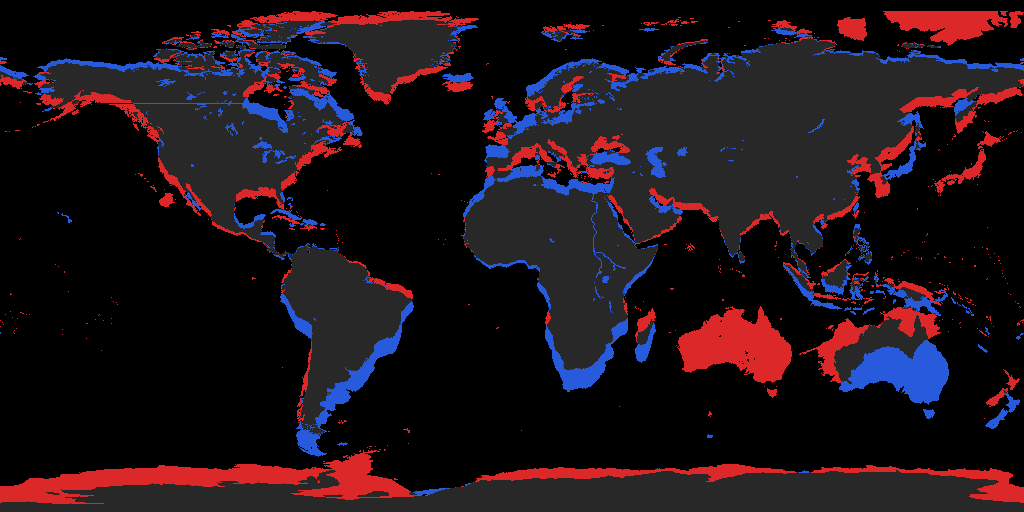
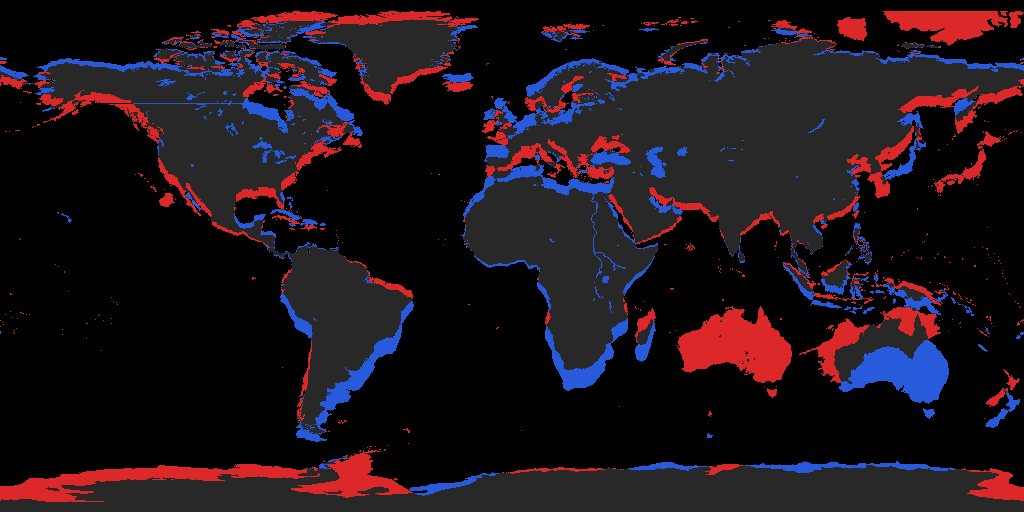
Fix world/Antarctica seam to author's value (367.5px from bottom)
The map author specified the world-map (Mercator) / Antarctica (equirect)
seam at 367-368 px from the bottom -> row 2192.5 -> normalized 0.8562 (my
earlier 0.918 was where the Antarctica *landmass* starts, below the actual
band join which includes the Southern Ocean strip).

Refit latitudes against Natural Earth with the correct seam:
  world      0..0.8562   +90 .. -50
  antarctica 0.8562..1   -54 .. -90
Baseline land/sea disagreement improves 12.62% -> 11.99%.

Note on projection: with the correct seam the vertical land-profile
correlation favours Mercator, but because the top row must be the true north
pole (+90) -- which pure Mercator cannot place at a finite edge -- equirect
aligns better overall (12.03% vs 12.45%) and stays the default; mercator
remains selectable via the proj column.

Changed region(s): [[0.0, 0.8438, 0.4688, 1.0], [0.4688, 0.9062, 0.9688, 0.9688], [0.9688, 0.9688, 1.0, 1.0]]

diff --git a/tools/mapfix/README.md b/tools/mapfix/README.md
@@ -4,10 +4,10 @@
 
 ## TL;DR
 
-- マップは **5120×2560**。ただし **単一の正距円筒ではない**。**世界map＋南極map を縦に合体し、指定ピクセル数に収めるため縦に押しつぶした**もので、**バンドごとに縦のスケール（縦横比）が異なる**（＝「2種類の縦横比」）。
-  - 世界バンド：行 0–2350（正規化 0–0.918）↔ 緯度 **+90°〜−60°**（≈15.4 px/度）
-  - 南極バンド：行 2350–2560（0.918–1.0）↔ 緯度 **−65°〜−90°**（≈8.4 px/度、より圧縮）
-- このピースワイズ投影（`bands.csv`）を前提に実地理(GIS)と比較すると、陸海の食い違いは **約12.7%**（単一正距円筒という誤前提だと16.8%に見えていた＝差の約4%はフレーム誤差）。
+- マップは **5120×2560**。ただし **単一の正距円筒ではない**。**世界map＋南極map を縦に合体し、指定ピクセル数に収めるため縦に押しつぶした**もので、**バンドごとに縦のスケール（縦横比）が異なる**（＝「2種類の縦横比」）。継ぎ目は**下から367.5px（正規化0.8562）**。
+  - 世界バンド：行 0–2192（正規化 0–0.8562）↔ 緯度 **+90°〜−50°**（出自メルカトル／実用上は正距円筒が最良）
+  - 南極バンド：行 2192–2560（0.8562–1.0）↔ 緯度 **−54°〜−90°**（正距円筒）
+- このピースワイズ投影（`bands.csv`）を前提に実地理(GIS)と比較すると、陸海の食い違いは **約12.0%**（単一正距円筒という誤前提だと16.8%に見えていた）。
 - 全レイヤーを **同一の変位場でワープ**（プロヴィンスは最近傍補間で色＝ID保持）すると、食い違いを **約6.5% まで低減**。変位量も 17→11px に減り、補正が「真の歪み」だけに集中。
 - この方式なら **province ID が変わらない**ので、`definition.csv` / states / history / supply などの既存データは壊れない。
 
@@ -17,10 +17,10 @@
 
 ```
  row 0      ┌─────────────────────────────┐  +90° (北極)
-            │        世界バンド            │
-            │   (lat +90..-60, 15.4px/°)   │
- row 2350   ├─────────────────────────────┤  -60° / -65°（継ぎ目）
-            │       南極バンド (圧縮)      │
+            │     世界バンド (Mercator出自)│
+            │        lat +90 .. -50        │
+ row 2192   ├─────────────────────────────┤  継ぎ目（下から367.5px）
+            │   南極バンド (正距円筒/圧縮) │  lat -54 .. -90
  row 2560   └─────────────────────────────┘  -90° (南極)
 ```
 
@@ -31,14 +31,16 @@
 各バンドは `equirect` / `mercator` を選べる（`bands.csv` の6列目）。
 
 - **南極**：正距円筒（作者確認）。
-- **世界**：出自は**メルカトル**（作者）。ただし**ピクセル予算に収める縦圧縮でメルカトルの高緯度引き伸ばしがほぼ相殺**され、実測では正距円筒の方がGISとよく合う：
+- **世界**：出自は**メルカトル**（作者）。ただし**最上行を北極(+90°)に合わせて押しつぶした**ため、純メルカトルでは有限の端に極を置けず、実用上は正距円筒が最良。継ぎ目を正確値（下から367.5px）にした上での実測：
 
-  | 世界バンドの投影 | 陸海不一致(before) | warp後 |
-  |---|---|---|
-  | equirect（既定）| **12.7%** | **7.2%** |
-  | mercator | 13.3% | 7.9% |
+  | 世界バンドの投影 | 陸海不一致(before) |
+  |---|---|
+  | equirect（既定）| **12.03%** |
+  | mercator(latN≈78) | 12.45% |
 
-  よって既定は equirect。出自どおりメルカトルにしたい場合は `bands.csv` の world 行の proj を `mercator` に変更（緯度は latN≈78, latS≈-68 が最良）。
+  縦方向だけの相関ではメルカトルが上回るが、北極を端に固定する制約のため全体一致は equirect が良い。出自どおりメルカトルにしたい場合は `bands.csv` の world 行を `mercator`（latN≈78, seam≈−62）に。
+
+> **継ぎ目の確定値**：世界map（メルカトル）と南極map（正距円筒）の境界は**下から367–368px**（作者）＝上から行2192.5＝正規化 **0.8562**。
 
 ## なぜ「ワープ」なのか
 
